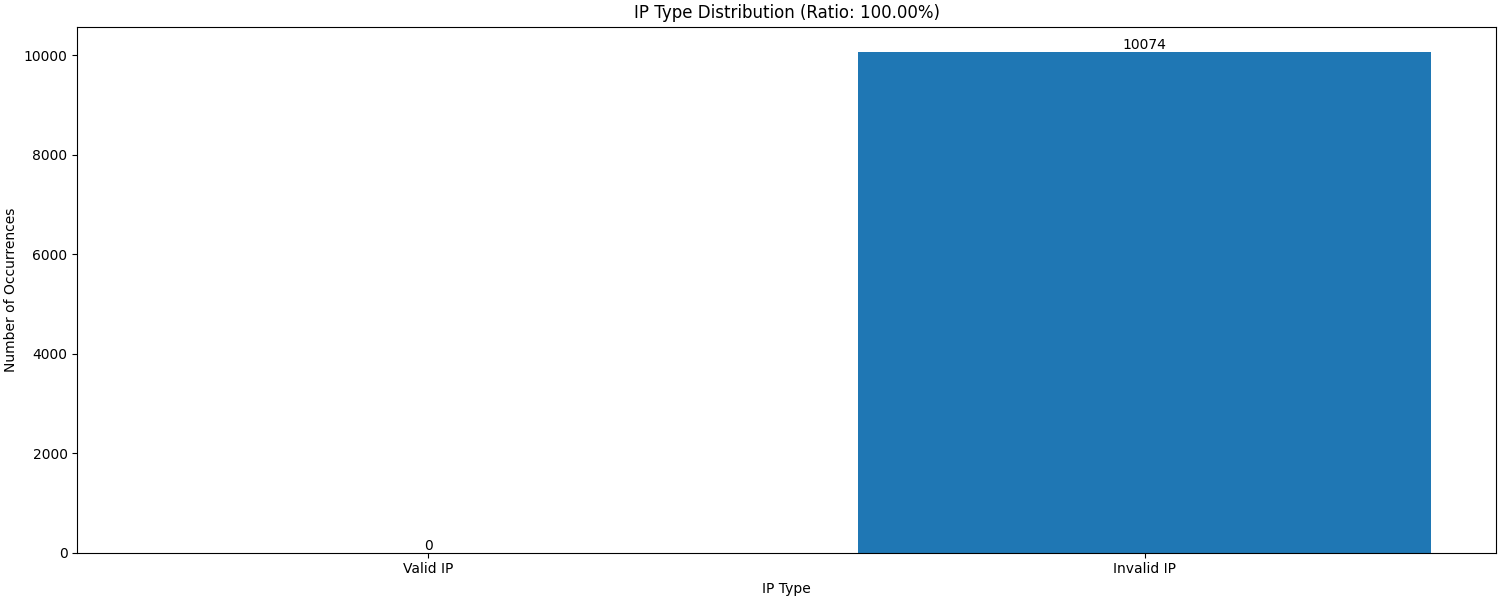
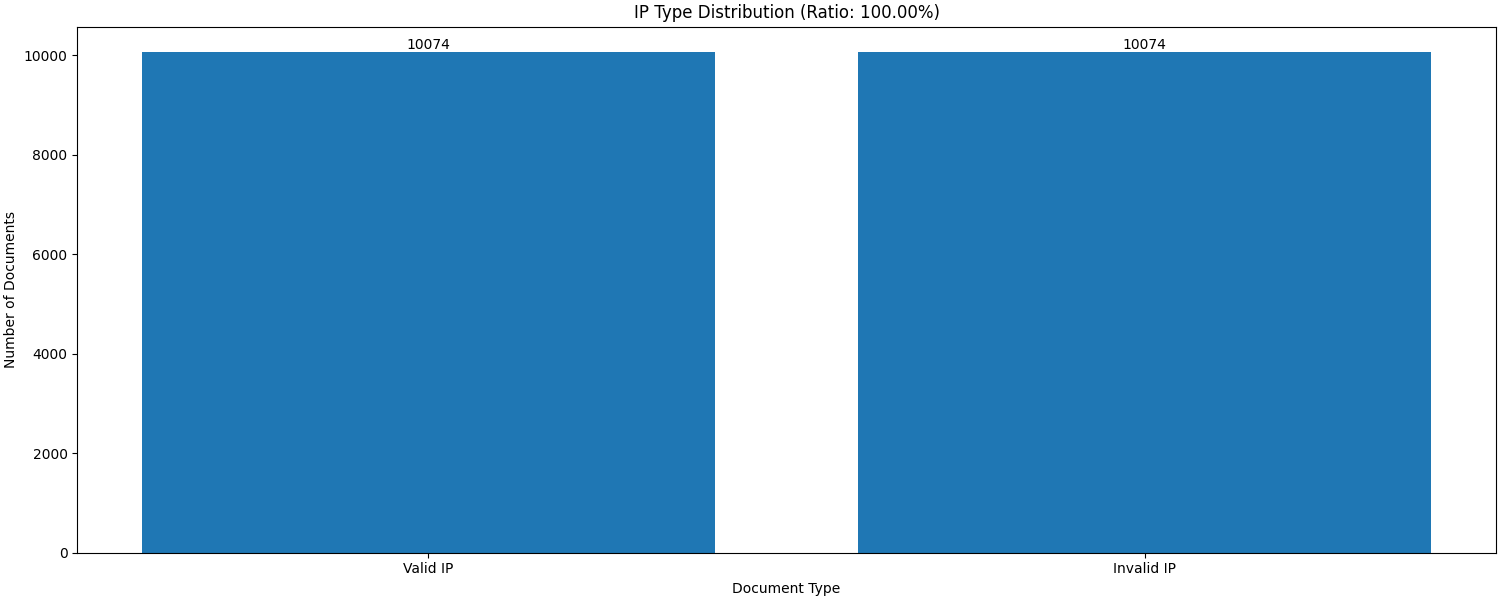
Updated the graph

diff --git a/src/Database/Graph/GFWLocationPlot.py b/src/Database/Graph/GFWLocationPlot.py
@@ -8,6 +8,8 @@ import networkx as nx
 import logging
 import multiprocessing
 from collections import Counter
+from concurrent.futures import ThreadPoolExecutor
+import matplotlib.lines as mlines
 
 CPU_CORES = multiprocessing.cpu_count()
 MAX_WORKERS = max(CPU_CORES * 2, 256)  # Dynamically set workers
@@ -24,66 +26,79 @@ merged_2024_Nov_GFWL = MongoDBHandler(Merged_db["2024_Nov_GFWL"])
 merged_2025_Jan_GFWL = MongoDBHandler(Merged_db["2025_GFWL"])
 
 
+def plot_distribution(destination_db, output_folder, field, labels, title):
+  """
+  @brief Plots the distribution of documents based on a specified field.
+
+  This function calculates the ratio of documents with the specified field in the
+  MongoDB collection and plots a bar chart showing the total number of documents
+  and the number with the field. The plot is saved as a PNG file in the
+  specified output folder.
+
+  @param destination_db The MongoDB collection object to query the documents from.
+  @param output_folder The folder path where the output plot image will be saved.
+  @param field The field to check for existence or a query dictionary.
+  @param labels The labels for the bar chart.
+  @param title The title of the plot.
+
+  @return None
+  """
+  logger.info(f'Start to plot {title}')
+  total_docs = destination_db.count_documents({})
+  if isinstance(field, dict):
+    query = field
+  else:
+    query = {field: {"$exists": True}}
+  docs_with_field = destination_db.count_documents(query)
+  ratio = docs_with_field / total_docs * 100
+
+  fig, ax = plt.subplots(figsize=(15, 6), constrained_layout=True)
+  ax.bar(labels, [total_docs, docs_with_field])
+  ax.text(labels[0], total_docs, total_docs, ha='center', va='bottom')
+  ax.text(labels[1], docs_with_field, docs_with_field, ha='center', va='bottom')
+  ax.set_xlabel('Document Type')
+  ax.set_ylabel('Number of Documents')
+  ax.set_title(f'{title} (Ratio: {ratio:.2f}%)')
+  fig.savefig(f'{output_folder}/{title.replace(" ", "_")}.png')
+  plt.close(fig)
+
 def distribution_GFWL_rst_detected(destination_db, output_folder):
   """
-  @brief Plots the distribution of documents with RST detected in the given database.
-
-  This function calculates the ratio of documents with the "rst_detected" field in the
-  specified MongoDB collection and plots a bar chart showing the total number of documents
-  and the number of documents with RST detected. The plot is saved as a PNG file in the
-  specified output folder.
+  @brief Plots the distribution of documents with RST detected.
 
   @param destination_db The MongoDB collection object to query the documents from.
   @param output_folder The folder path where the output plot image will be saved.
 
   @return None
   """
-  logger.info('Start to plot RST Detected Distribution')
-  total_docs = destination_db.count_documents({})
-  docs_with_rst_detected = destination_db.count_documents({"rst_detected": { "$exists": True }})
-  rst_detected_ratio = docs_with_rst_detected / total_docs * 100
-
-  fig, ax = plt.subplots(figsize=(15, 6), constrained_layout=True)
-  ax.bar(['Total Docs', 'RST Detected'], [total_docs, docs_with_rst_detected])
-  ax.text('Total Docs', total_docs, total_docs, ha='center', va='bottom')
-  ax.text('RST Detected', docs_with_rst_detected, docs_with_rst_detected, ha='center', va='bottom')
-  ax.set_xlabel('Document Type')
-  ax.set_ylabel('Number of Documents')
-  ax.set_title(f'RST Detected Distribution (Ratio: {rst_detected_ratio:.2f}%)')
-  fig.savefig(f'{output_folder}/RST_Detected_Distribution.png')
-  plt.close(fig)
+  plot_distribution(
+    destination_db,
+    output_folder,
+    "rst_detected",
+    ['Total Docs', 'RST Detected'],
+    'RST Detected Distribution'
+  )
 
 def distribution_GFWL_redirection_detected(destination_db, output_folder):
   """
-  @brief Plots the distribution of documents with redirection detected in the given database.
-
-  This function counts the total number of documents and the number of documents with redirection detected
-  in the specified MongoDB collection. It then plots a bar chart showing the distribution and saves the
-  plot as a PNG file in the specified output folder.
+  @brief Plots the distribution of documents with redirection detected.
 
   @param destination_db The MongoDB collection object to query for documents.
   @param output_folder The folder path where the output plot image will be saved.
 
   @return None
   """
-  logger.info('Start to plot Redirection Detected Distribution')
-  total_docs = destination_db.count_documents({})
-  docs_with_redirection_detected = destination_db.count_documents({"redirection_detected": { "$elemMatch": { "$exists": True } }})
-  redirection_detected_ratio = docs_with_redirection_detected / total_docs * 100
-
-  fig, ax = plt.subplots(figsize=(15, 6), constrained_layout=True)
-  ax.bar(['Total Docs', 'Redirection Detected'], [total_docs, docs_with_redirection_detected])
-  ax.text('Total Docs', total_docs, total_docs, ha='center', va='bottom')
-  ax.text('Redirection Detected', docs_with_redirection_detected, docs_with_redirection_detected, ha='center', va='bottom')
-  ax.set_xlabel('Document Type')
-  ax.set_ylabel('Number of Documents')
-  ax.set_title(f'Redirection Detected Distribution (Ratio: {redirection_detected_ratio:.2f}%)')
-  fig.savefig(f'{output_folder}/Redirection_Detected_Distribution.png')
-  plt.close(fig)
+  plot_distribution(
+    destination_db,
+    output_folder,
+    {"redirection_detected": {"$elemMatch": {"$exists": True}}},
+    ['Total Docs', 'Redirection Detected'],
+    'Redirection Detected Distribution'
+  )
 
 def distribution_GFWL_Error(destination_db, output_folder):
   """
-  @brief Plots the error distribution from the given database and saves the plot as an image.
+  @brief Plots the error distribution from the given database.
 
   This function retrieves documents from the specified database, calculates the error ratio,
   counts the occurrences of each error, and generates a bar plot showing the distribution
@@ -115,7 +130,6 @@ def distribution_GFWL_Error(destination_db, output_folder):
   fig.savefig(f'{output_folder}/Error_Distribution.png', bbox_inches='tight')
   plt.close(fig)
 
-
 def distribution_GFWL_invalid_ip(destination_db, output_folder):
   """
   @brief Plots the distribution of valid and invalid IP addresses in the database.
@@ -129,23 +143,29 @@ def distribution_GFWL_invalid_ip(destination_db, output_folder):
 
   @return None
   """
-  logger.info('Start to plot Invalid IP Distribution')
-  total_docs = destination_db.count_documents({})
-  docs_with_invalid_ip = destination_db.count_documents({"invalid_ip": { "$exists": True }})
-  invalid_ip_ratio = docs_with_invalid_ip / total_docs * 100
-
-  fig, ax = plt.subplots(figsize=(15, 6), constrained_layout=True)
-  ax.bar(['Valid IP', 'Invalid IP'], [total_docs - docs_with_invalid_ip, docs_with_invalid_ip])
-  ax.text('Valid IP', total_docs - docs_with_invalid_ip, total_docs - docs_with_invalid_ip, ha='center', va='bottom')
-  ax.text('Invalid IP', docs_with_invalid_ip, docs_with_invalid_ip, ha='center', va='bottom')
-  ax.set_xlabel('IP Type')
-  ax.set_ylabel('Number of Occurrences')
-  ax.set_title(f'IP Type Distribution (Ratio: {invalid_ip_ratio:.2f}%)')
-  fig.savefig(f'{output_folder}/IP_Type_Distribution.png')
-  plt.close(fig)
-
+  plot_distribution(
+    destination_db,
+    output_folder,
+    "invalid_ip",
+    ['Valid IP', 'Invalid IP'],
+    'IP Type Distribution'
+  )
 
 def ip_hops_core_path(destination_db, output_folder, domain=None, top_n=10, frequency_threshold=5):
+  """
+  @brief Constructs and visualizes core IP hops paths.
+
+  This function constructs a graph based on IP hops, identifies top core paths by edge weight,
+  assigns positions for layout, and visualizes the network graph, highlighting important edges.
+
+  @param destination_db The MongoDB collection object to query the IP hops data from.
+  @param output_folder The folder path where the IP path plot image will be saved.
+  @param domain (Optional) The domain to filter IP hops.
+  @param top_n The number of top core paths to identify based on edge weight.
+  @param frequency_threshold The minimum frequency for an edge to be included in the graph.
+
+  @return None
+  """
   G = nx.DiGraph()
   unique_edges = set()
 
@@ -213,39 +233,44 @@ def ip_hops_core_path(destination_db, output_folder, domain=None, top_n=10, freq
     for i, node in enumerate(nodes):
       pos[node] = (i * x_gap, -level * y_gap)
 
-  # 找到终结节点（出度为 0 的节点）
   end_nodes = [node for node in subG.nodes if subG.out_degree(node) == 0]
   # Step 5: Visualize core hops with end nodes
   plt.figure(figsize=(15, 7))
 
-  # 绘制普通节点
+  # Draw core nodes
   nx.draw_networkx_nodes(subG, pos, nodelist=[node for node in subG.nodes if node not in end_nodes],
-                        node_size=200, node_color='blue')
+                        node_size=200, node_color='blue', label='Core Nodes')
 
-  # 绘制终结节点
+  # Draw end nodes
   nx.draw_networkx_nodes(subG, pos, nodelist=end_nodes, node_size=300, node_color='green', label='End Nodes')
 
-  # 绘制边
-  nx.draw_networkx_edges(subG, pos, edge_color='gray', arrowsize=10)
+  # Draw normal edges
+  nx.draw_networkx_edges(subG, pos, edge_color='gray', arrowsize=10, label='Normal Edges')
 
-  # 调整标签的位置
-  label_pos = {node: (x, y - 5) for node, (x, y) in pos.items()}  # 标签下移 5 单位
+  # Adjust label position
+  label_pos = {node: (x, y - 5) for node, (x, y) in pos.items()}  # Label offset by 5 units
   nx.draw_networkx_labels(subG, label_pos, font_size=8, font_color='black')
 
-  # 高亮最重要的边
-  top_edges = [(u, v) for u, v, _ in top_edges]
-  nx.draw_networkx_edges(subG, pos, edgelist=top_edges, edge_color='red', width=2)
-  # 添加图例说明红线是最重要的边
-  plt.legend(['Normal Edge', 'Important Edge'], fontsize=10)
+  # Draw important edges
+  top_edges_list = [(u, v) for u, v, _ in top_edges]
+  nx.draw_networkx_edges(subG, pos, edgelist=top_edges_list, edge_color='red', width=2, label='Important Edges')
 
+  # Create custom legend handles
+  core_node_patch = mlines.Line2D([], [], marker='o', color='blue', linestyle='None',
+                                  markersize=7, label='Core Nodes')
+  end_node_patch = mlines.Line2D([], [], marker='o', color='green', linestyle='None',
+                                 markersize=10, label='End Nodes')
+  normal_edge_line = mlines.Line2D([], [], color='gray', linewidth=2, label='Normal Edges')
+  important_edge_line = mlines.Line2D([], [], color='red', linewidth=2, label='Important Edges')
 
-  # 标注终结节点为 "End"
+  # Add custom legend
+  plt.legend(handles=[core_node_patch, end_node_patch, normal_edge_line, important_edge_line],
+            scatterpoints=1, loc='best', fontsize=10)
+
+  # Add labels for end nodes
   for node in end_nodes:
     x, y = pos[node]
     plt.text(x, y - 10, 'End', fontsize=8, color='green', ha='center')
-
-  # 添加图例
-  plt.legend(scatterpoints=1, loc='best', fontsize=10)
 
   plt.title(f'Optimized Core IP Hops Network{" for " + domain if domain else ""}', fontsize=16)
   filename = f'Optimized_Core_IP_Hops_Network{"_" + domain if domain else ""}.png'
@@ -267,20 +292,25 @@ if __name__ == '__main__':
   for folder in folders:
     ensure_folder_exists(folder)
 
-  distribution_GFWL_rst_detected(GFWLocation, 'E:\\Developer\\SourceRepo\\GFW-Research\\Pic\\2024-9',)
-  distribution_GFWL_redirection_detected(GFWLocation, 'E:\\Developer\\SourceRepo\\GFW-Research\\Pic\\2024-9')
-  distribution_GFWL_Error(GFWLocation, 'E:\\Developer\\SourceRepo\\GFW-Research\\Pic\\2024-9')
-  distribution_GFWL_invalid_ip(GFWLocation, 'E:\\Developer\\SourceRepo\\GFW-Research\\Pic\\2024-9')
-  ip_hops_core_path(GFWLocation, 'E:\\Developer\\SourceRepo\\GFW-Research\\Pic\\2024-9')
+  with ThreadPoolExecutor(max_workers=MAX_WORKERS) as executor:
+    # 2024-9
+    executor.submit(distribution_GFWL_rst_detected, GFWLocation, 'E:\\Developer\\SourceRepo\\GFW-Research\\Pic\\2024-9')
+    executor.submit(distribution_GFWL_redirection_detected, GFWLocation, 'E:\\Developer\\SourceRepo\\GFW-Research\\Pic\\2024-9')
+    executor.submit(distribution_GFWL_Error, GFWLocation, 'E:\\Developer\\SourceRepo\\GFW-Research\\Pic\\2024-9')
+    executor.submit(distribution_GFWL_invalid_ip, GFWLocation, 'E:\\Developer\\SourceRepo\\GFW-Research\\Pic\\2024-9')
+    executor.submit(ip_hops_core_path, GFWLocation, 'E:\\Developer\\SourceRepo\\GFW-Research\\Pic\\2024-9')
 
-  distribution_GFWL_Error(merged_2024_Nov_GFWL, 'E:\\Developer\\SourceRepo\\GFW-Research\\Pic\\2024-11')
-  distribution_GFWL_rst_detected(merged_2024_Nov_GFWL, 'E:\\Developer\\SourceRepo\\GFW-Research\\Pic\\2024-11')
-  distribution_GFWL_redirection_detected(merged_2024_Nov_GFWL, 'E:\\Developer\\SourceRepo\\GFW-Research\\Pic\\2024-11')
-  distribution_GFWL_invalid_ip(merged_2024_Nov_GFWL, 'E:\\Developer\\SourceRepo\\GFW-Research\\Pic\\2024-11')
-  ip_hops_core_path(merged_2024_Nov_GFWL, 'E:\\Developer\\SourceRepo\\GFW-Research\\Pic\\2024-11')
+    # 2024-11
+    executor.submit(distribution_GFWL_Error, merged_2024_Nov_GFWL, 'E:\\Developer\\SourceRepo\\GFW-Research\\Pic\\2024-11')
+    executor.submit(distribution_GFWL_rst_detected, merged_2024_Nov_GFWL, 'E:\\Developer\\SourceRepo\\GFW-Research\\Pic\\2024-11')
+    executor.submit(distribution_GFWL_redirection_detected, merged_2024_Nov_GFWL, 'E:\\Developer\\SourceRepo\\GFW-Research\\Pic\\2024-11')
+    executor.submit(distribution_GFWL_invalid_ip, merged_2024_Nov_GFWL, 'E:\\Developer\\SourceRepo\\GFW-Research\\Pic\\2024-11')
+    executor.submit(ip_hops_core_path, merged_2024_Nov_GFWL, 'E:\\Developer\\SourceRepo\\GFW-Research\\Pic\\2024-11')
 
-  distribution_GFWL_Error(merged_2025_Jan_GFWL, 'E:\\Developer\\SourceRepo\\GFW-Research\\Pic\\2025-1')
-  distribution_GFWL_rst_detected(merged_2025_Jan_GFWL, 'E:\\Developer\\SourceRepo\\GFW-Research\\Pic\\2025-1')
-  distribution_GFWL_redirection_detected(merged_2025_Jan_GFWL, 'E:\\Developer\\SourceRepo\\GFW-Research\\Pic\\2025-1')
-  distribution_GFWL_invalid_ip(merged_2025_Jan_GFWL, 'E:\\Developer\\SourceRepo\\GFW-Research\\Pic\\2025-1')
-  ip_hops_core_path(merged_2025_Jan_GFWL, 'E:\\Developer\\SourceRepo\\GFW-Research\\Pic\\2025-1')
+    # 2025-1
+    executor.submit(distribution_GFWL_Error, merged_2025_Jan_GFWL, 'E:\\Developer\\SourceRepo\\GFW-Research\\Pic\\2025-1')
+    executor.submit(distribution_GFWL_rst_detected, merged_2025_Jan_GFWL, 'E:\\Developer\\SourceRepo\\GFW-Research\\Pic\\2025-1')
+    executor.submit(distribution_GFWL_redirection_detected, merged_2025_Jan_GFWL, 'E:\\Developer\\SourceRepo\\GFW-Research\\Pic\\2025-1')
+    executor.submit(distribution_GFWL_invalid_ip, merged_2025_Jan_GFWL, 'E:\\Developer\\SourceRepo\\GFW-Research\\Pic\\2025-1')
+    executor.submit(ip_hops_core_path, merged_2025_Jan_GFWL, 'E:\\Developer\\SourceRepo\\GFW-Research\\Pic\\2025-1')
+  logger.info('All tasks completed.')
